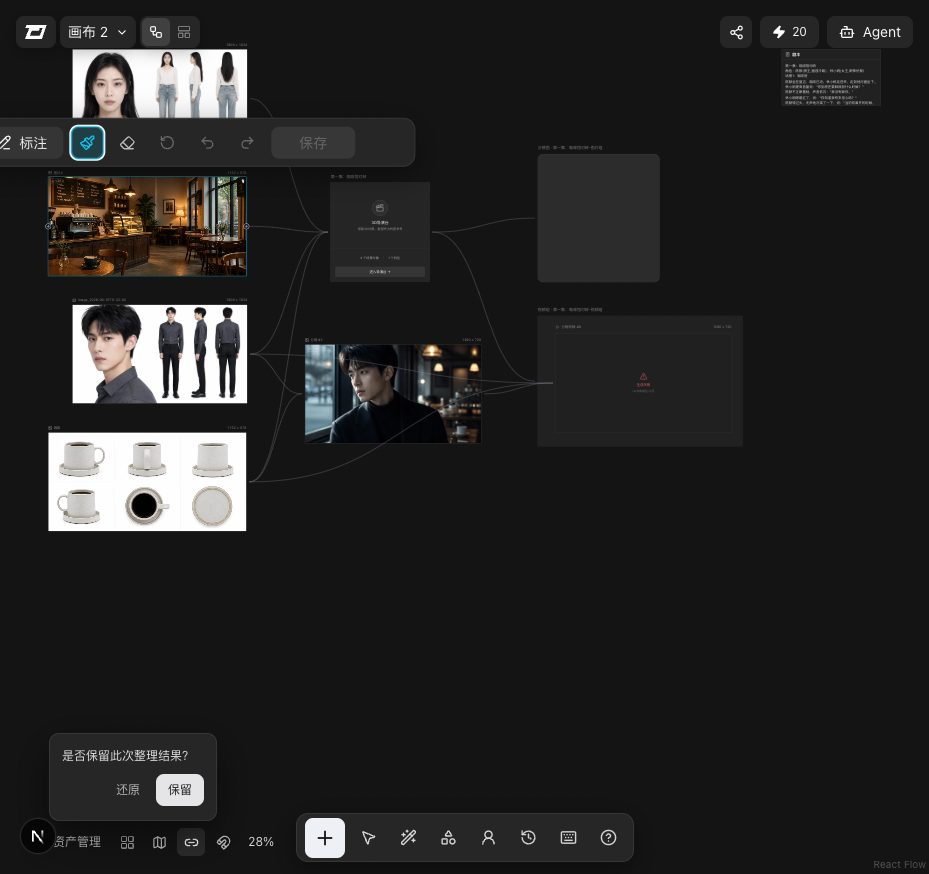
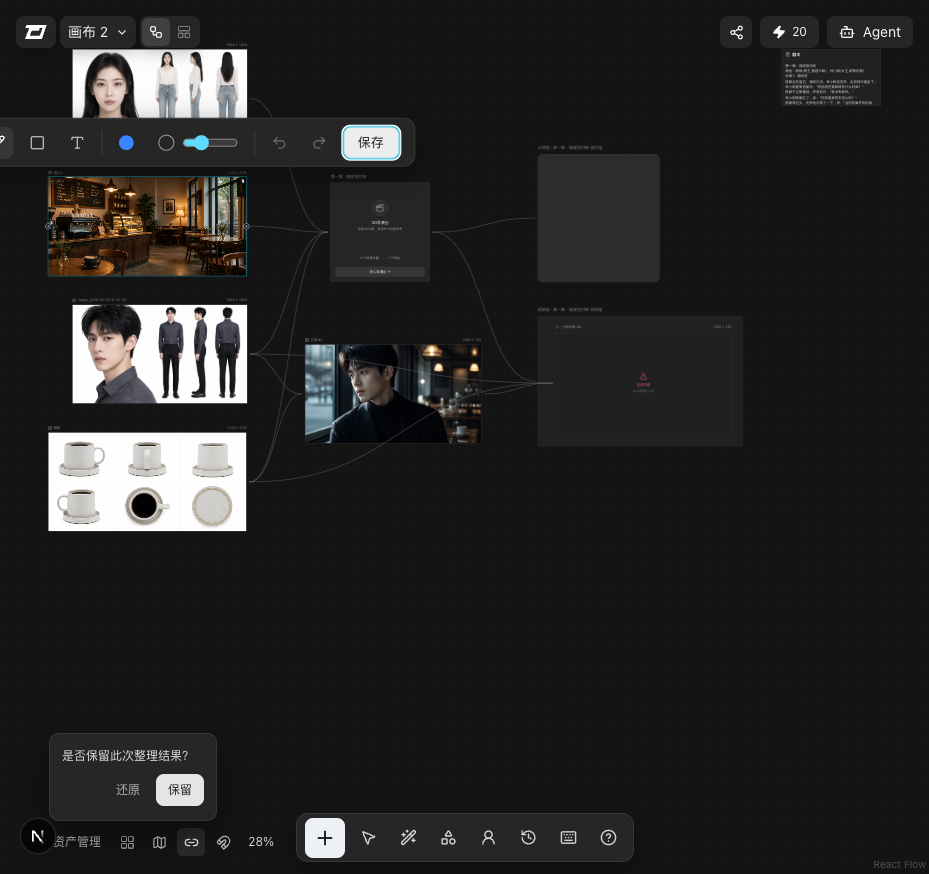
fix: harden batch 53 annotate verifier

Changed region(s): [[0.0, 0.1236, 0.2497, 0.1854], [0.3122, 0.1236, 0.437, 0.1854]]

diff --git a/src/components/ImageAnnotateToolbar.tsx b/src/components/ImageAnnotateToolbar.tsx
@@ -101,7 +101,7 @@ export function ImageAnnotateToolbar({
           {isColorOpen && (
             <div
               data-image-annotate-color-menu
-              className="absolute left-1/2 top-full z-20 mt-2 grid -translate-x-1/2 grid-cols-4 gap-1 rounded-xl border border-[#363636] bg-[#262626] p-2 shadow-[0_8px_24px_rgba(0,0,0,0.42)]"
+              className="absolute left-1/2 top-full z-20 mt-2 grid w-[140px] -translate-x-1/2 grid-cols-4 gap-1 rounded-xl border border-[#363636] bg-[#262626] p-2 shadow-[0_8px_24px_rgba(0,0,0,0.42)]"
             >
               {colors.map((option) => (
                 <button

diff --git a/scripts/verify-liblib-batch53.py b/scripts/verify-liblib-batch53.py
@@ -100,7 +100,7 @@ def click_toolbar_button(page: Page, selector: str):
         trigger.click()
 
 
-def assert_annotate(page: Page):
+def assert_annotate(page: Page, graph_before=None):
     image_node = node(page)
     node_box = box(image_node)
     media_box = box(image_node.locator("[data-image-node-media]"))
@@ -152,14 +152,15 @@ def assert_annotate(page: Page):
     line_width.fill("12")
     assert line_width.input_value() == "12"
 
-    page.get_by_role("button", name="矩形", exact=True).click()
+    click_toolbar_button(page, '[data-image-annotate-control="rect"]')
     assert page.locator("[data-image-annotate-surface]").get_attribute("data-image-annotate-tool") == "rect"
-    page.get_by_role("button", name="文字", exact=True).click()
+    click_toolbar_button(page, '[data-image-annotate-control="text"]')
     assert page.locator("[data-image-annotate-surface]").get_attribute("data-image-annotate-tool") == "text"
-    page.get_by_role("button", name="画笔", exact=True).click()
+    click_toolbar_button(page, '[data-image-annotate-control="pencil"]')
     assert page.locator("[data-image-annotate-surface]").get_attribute("data-image-annotate-tool") == "pencil"
-    page.locator("[data-image-annotate-save]").click()
-    assert graph_signature(page) == graph_before
+    click_toolbar_button(page, "[data-image-annotate-save]")
+    if graph_before is not None:
+        assert graph_signature(page) == graph_before
 
     return {
         "node": node_box,
@@ -184,7 +185,7 @@ def run_desktop(page: Page):
     page.screenshot(path=str(REFERENCE_DIR / "liblib-clone-batch53-image-annotate-standard-929-2026-08-26.png"))
 
     open_annotate(page)
-    annotate_metrics = assert_annotate(page)
+    annotate_metrics = assert_annotate(page, graph_before)
     page.keyboard.press("Delete")
     page.keyboard.press("Control+z")
     page.keyboard.down("Space")
@@ -268,7 +269,7 @@ def main():
     print(
         "Batch 53 Playwright verification passed: annotate toolbar replacement, "
         "standard panel removal, node-centered geometry, DPR2 canvas backing, "
-        "empty-state disabled actions, tool toggle, keyboard isolation, "
+        "empty-state undo/redo state, tool/color/line-width controls, keyboard isolation, "
         "Escape/close recovery, graph immutability and mobile overflow."
     )
 
